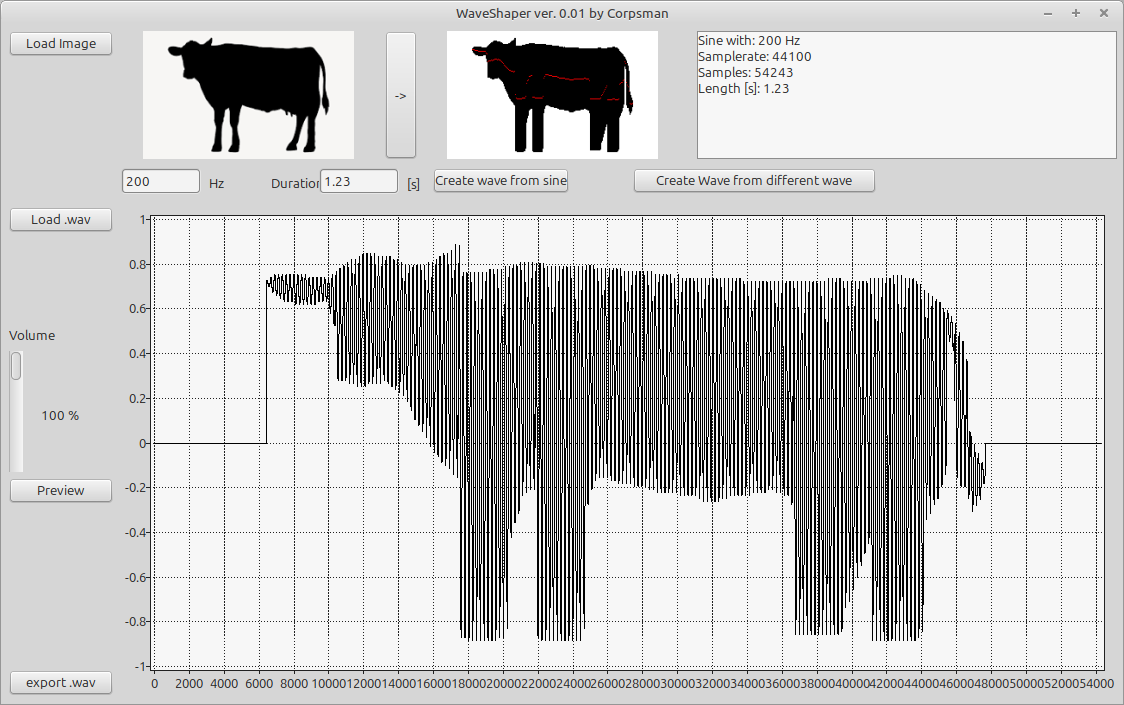
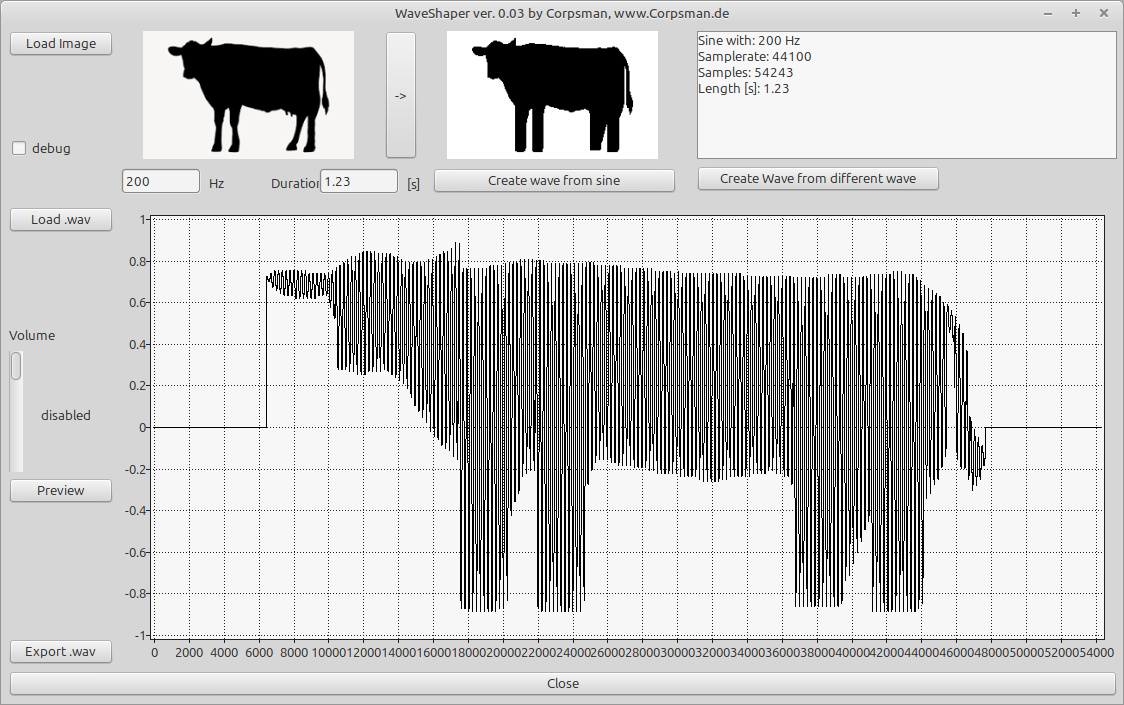
ADD: Update docu

diff --git a/miniprojects/WaveShaper/Readme.md b/miniprojects/WaveShaper/Readme.md
@@ -25,5 +25,10 @@ Copy the binary from the corresponding [bin](bin) folder for your operating syst
    2. Load a different .wav file that will be reshaped to the new shape
 - Preview the created wave file
 
+# How to enable preview ?
+By default the application does not use preview, because this is only possible, when using the bass.dll / basslib.so. This is done to make "testing" the software more easily, as you now can download the application and run it with no further configuration.
+
+If you want to use sound preview you need to recompile the code with enabled {$Define UseBassSound} switch.
+
 ## Hidden features
 Right click on the image "right" of the "->" button opens a save image dialog.
